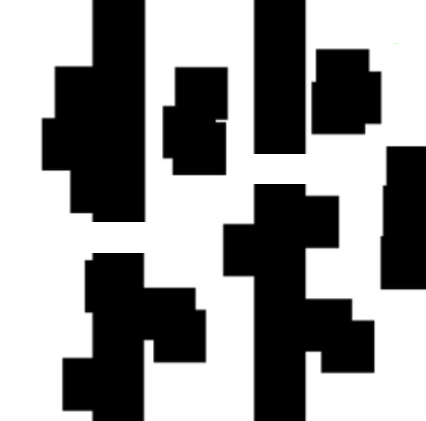
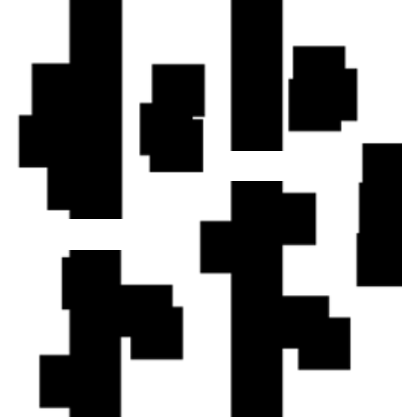
Tests for RRTConnect

diff --git a/robotFollowingRRT.py b/robotFollowingRRT.py
@@ -624,7 +624,7 @@ if __name__ == "__main__":
     #Specify inputs
     grid = np.load('cspace.npy') 
     start = np.array([0.75, 0.5]) #Adjust these coords
-    goal = np.array([225, 225])
+    goal = np.array([230, 225])
     numIterations = 300
     stepSize = 15
     #goal region
@@ -642,29 +642,33 @@ if __name__ == "__main__":
 
     #Initialise an RRT
     rrtStart = RRTAlgorithm(start, goal, numIterations, grid, stepSize)
-    rrtGoal = RRTAlgorithm(goal, start, numIterations, grid, stepSize)
+    #rrtGoal = RRTAlgorithm(goal, start, numIterations, grid, stepSize) #RRTConnect
 
     #Run RRT algorithm (Greedy, normal, or RRTConnect)
     success = False #flag to detect if path was successful or not
-    success = runRRTConnect(start, goal, numIterations, grid, stepSize, rrtStart, rrtGoal, success)
+    #success = runRRTConnect(start, goal, numIterations, grid, stepSize, rrtStart, rrtGoal, success)
+    success = runRRT(start, goal, numIterations, grid, stepSize, rrtStart, success)
 
     if success:
         print("success")
         plotRRTPath(rrtStart, rrtStart.endNode)
-        plotRRTPath(rrtGoal, rrtGoal.nearestNode)
+        #plotRRTPath(rrtGoal, rrtGoal.nearestNode) #RRT connect
 
         #Robot follower
         robotFollower(start, rrtStart.Waypoints, rrtStart.rho)
 
-        #Second tree for RRTConnect
-        reversedRRTGoal = rrtGoal.Waypoints.copy()
-        reversedRRTGoal.reverse()
-        robotFollower(np.array([reversedRRTGoal[0][0], reversedRRTGoal[0][1]]), reversedRRTGoal, rrtGoal.rho) #initialise the robot outside of robot follower
+        # #Second tree for RRTConnect
+        # reversedRRTGoal = rrtGoal.Waypoints.copy()
+        # reversedRRTGoal.reverse()
+        # robotFollower(np.array([reversedRRTGoal[0][0], reversedRRTGoal[0][1]]), reversedRRTGoal, rrtGoal.rho) #initialise the robot outside of robot follower
 
     else:
         print("Path not found")
-    plt.show()    
+    plt.show()
 
     #Algorithm measures of success
+    """
+    RRT CONNECT
     print(f"RRT Path Distance: {rrtStart.path_distance + rrtGoal.path_distance}")
-    print(f"Number of sampled points: {rrtStart.numSampledNodes}")
+    print(f"Number of sampled points: {rrtStart.numSampledNodes + rrtGoal.numSampledNodes}")
+    """

diff --git a/readImg.py b/readImg.py
@@ -3,7 +3,7 @@ import numpy as np
 import matplotlib.pyplot as plt
 
 #Generate occupancy grid to implement RRT in
-img = Image.open('cspace2.png')
+img = Image.open('cspace1.png')
 
 img = ImageOps.grayscale(img)
 
